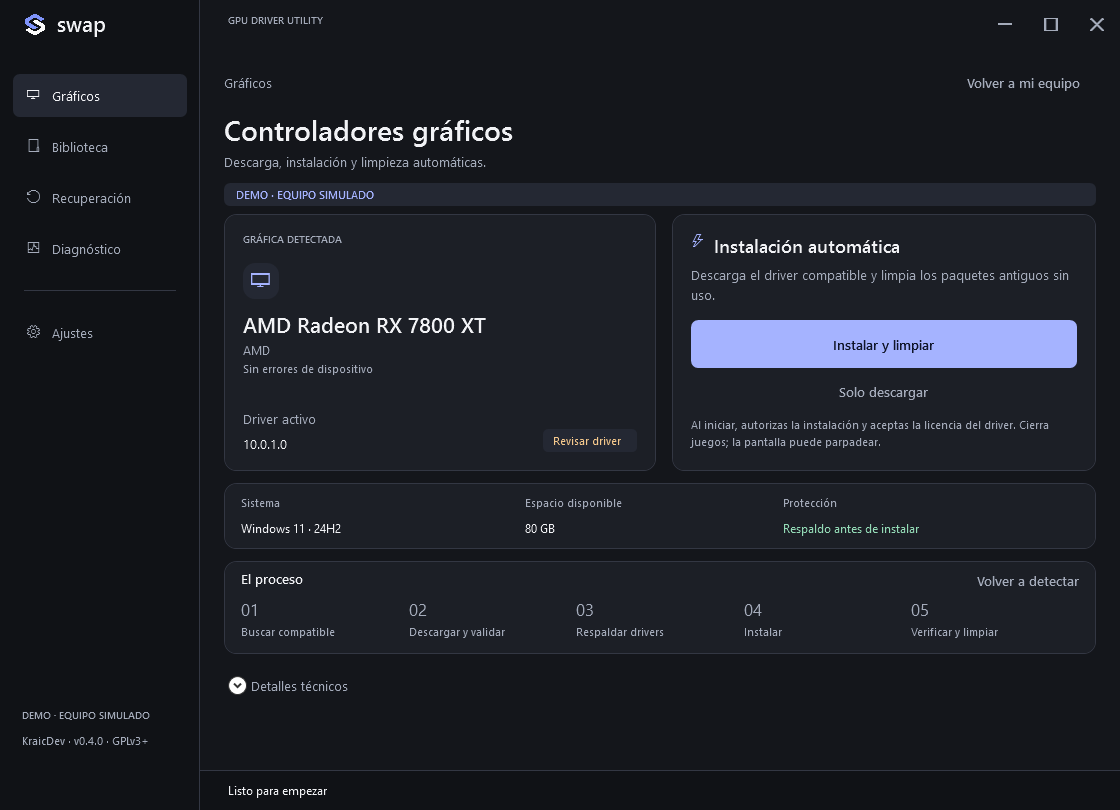
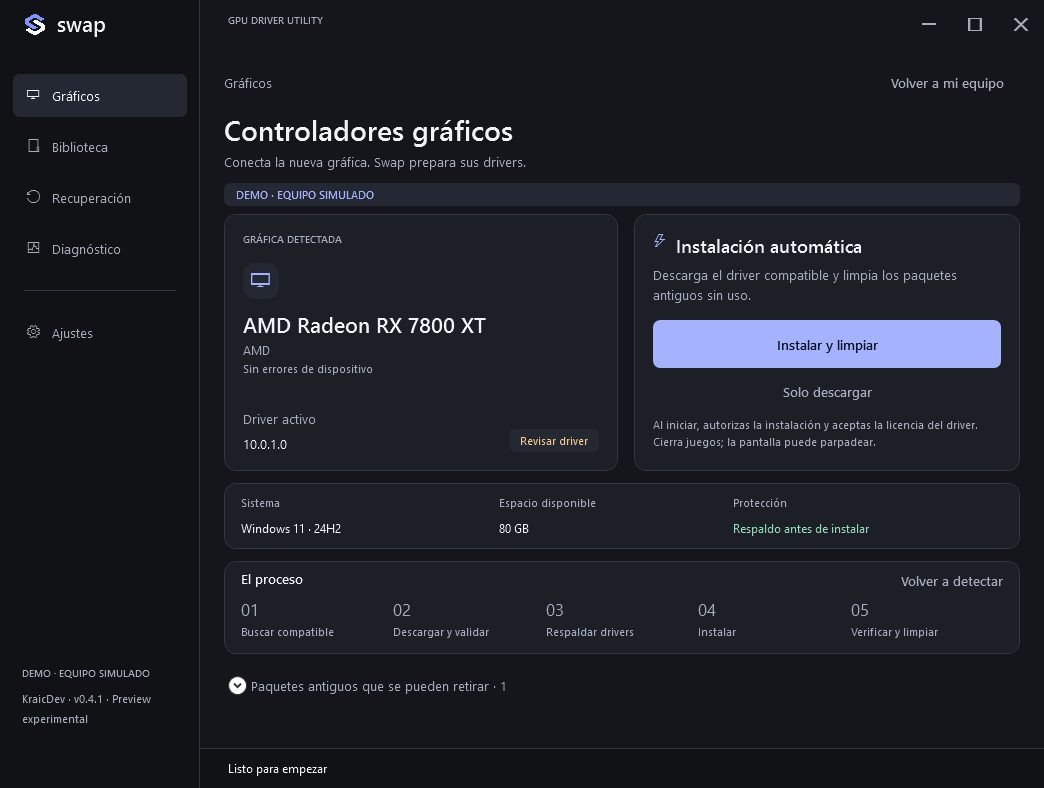
Present the post-connection workflow and verified 0.4.1 download — KraicDev

diff --git a/web/index.html b/web/index.html
@@ -1,11 +1,11 @@
 <!doctype html>
-<html lang="en"><head><meta charset="utf-8"><meta name="viewport" content="width=device-width,initial-scale=1"><meta name="theme-color" content="#121419"><meta name="description" content="Swap by KraicDev — a free, open-source portable GPU driver utility for Windows. NVIDIA, AMD and Intel Arc. Experimental preview."><title>Swap — KraicDev</title><link rel="icon" href="logo.png"><link rel="stylesheet" href="style.css"></head>
+<html lang="en"><head><meta charset="utf-8"><meta name="viewport" content="width=device-width,initial-scale=1"><meta name="theme-color" content="#121419"><meta name="description" content="Swap by KraicDev prepares Windows after a GPU brand change: hardware-matched drivers, verified backups and unused Display package cleanup. Free portable EXE."><link rel="canonical" href="https://zkraic.github.io/Swap/"><meta property="og:type" content="website"><meta property="og:title" content="Swap — GPU driver transition | KraicDev"><meta property="og:description" content="For use after connecting your new graphics card. Free, open-source Windows EXE. Experimental preview."><meta property="og:url" content="https://zkraic.github.io/Swap/"><meta property="og:image" content="https://zkraic.github.io/Swap/app-dark.png?v=0.4.1"><meta name="twitter:card" content="summary_large_image"><title>Swap — GPU driver transition | KraicDev</title><link rel="icon" href="logo.png"><link rel="stylesheet" href="style.css"></head>
 <body><a class="skip" href="#main">Skip to content</a>
 <header><a class="brand" href="#main"><img src="logo.png" width="30" height="30" alt=""><span>swap<span class="by">by KraicDev</span></span></a><nav aria-label="Main"><a href="#features" data-i18n="navFeatures">Features</a><a href="#details" data-i18n="navDetails">Details</a><a href="https://github.com/zKraic/Swap">GitHub ↗</a><button id="language" aria-label="Cambiar idioma a español">ES</button><button id="theme" aria-label="Toggle color theme">◐</button></nav></header>
-<main id="main"><section class="hero"><div class="intro"><p class="eyebrow">WINDOWS UTILITIES / KRAICDEV</p><h1 data-i18n="title">GPU driver<br>management.</h1><p class="lead" data-i18n="intro">Download, back up, install and verify. A single portable EXE for NVIDIA, AMD and Intel Arc.</p><div class="actions"><a class="primary" href="https://github.com/zKraic/Swap/releases/download/v0.4.0-preview/Swap.exe" data-i18n="download">Download preview <span aria-hidden="true">↓</span></a><a class="secondary" href="https://github.com/zKraic/Swap" data-i18n="source">View source ↗</a></div><p class="meta" data-i18n="meta">Windows 10/11 x64 · Free · No installer</p></div><div class="diagram" aria-label="Backup, install, verify"><div class="orbit"></div><div class="chip"><img src="logo.png" width="72" height="72" alt=""><span>swap</span></div><div class="node n1"><span>01</span><b data-i18n="backup">Back up</b></div><div class="node n2"><span>02</span><b data-i18n="install">Install</b></div><div class="node n3"><span>03</span><b data-i18n="verify">Verify</b></div><p class="diagram-note">NVIDIA ↔ AMD ↔ INTEL ARC</p></div></section>
-<aside class="notice"><span class="tag" data-i18n="preview">EXPERIMENTAL PREVIEW</span><p data-i18n="notice">Installation and removal were tested with simulated hardware. Physical GPU replacement and games remain untested. The EXE is unsigned while trusted signing requires external approval.</p><a href="https://github.com/zKraic/Swap/blob/main/docs/validation/V04-RESULTS.md" data-i18n="evidence">Validation and limits ↗</a></aside>
+<main id="main"><section class="hero"><div class="intro"><p class="eyebrow">WINDOWS UTILITIES / KRAICDEV</p><h1 data-i18n="title">GPU driver<br>transition.</h1><p class="lead" data-i18n="intro">With the new graphics card connected, Swap downloads a compatible Display driver, backs up, installs, verifies and cleans eligible old packages.</p><div class="actions"><a class="primary" href="https://github.com/zKraic/Swap/releases/download/v0.4.1-preview/Swap.exe" data-i18n="download">Download preview <span aria-hidden="true">↓</span></a><a class="secondary" href="https://github.com/zKraic/Swap" data-i18n="source">View source ↗</a></div><p class="meta" data-i18n="meta">Windows 10/11 x64 · Free · No installer</p></div><div class="diagram" aria-label="Backup, install, verify"><div class="orbit"></div><div class="chip"><img src="logo.png" width="72" height="72" alt=""><span>swap</span></div><div class="node n1"><span>01</span><b data-i18n="backup">Back up</b></div><div class="node n2"><span>02</span><b data-i18n="install">Install</b></div><div class="node n3"><span>03</span><b data-i18n="verify">Verify</b></div><p class="diagram-note">NVIDIA ↔ AMD ↔ INTEL ARC</p></div></section>
+<aside class="notice"><span class="tag" data-i18n="preview">EXPERIMENTAL PREVIEW</span><p data-i18n="notice">Installation and removal were tested with simulated hardware. Physical GPU replacement and games remain untested. The EXE is unsigned while trusted signing requires external approval.</p><a href="https://github.com/zKraic/Swap/blob/main/docs/validation/V041-RESULTS.md" data-i18n="evidence">Validation and limits ↗</a></aside>
 <section class="product"><div class="section-title"><p class="eyebrow" data-i18n="interface">THE APPLICATION</p><h2 data-i18n="productTitle">Installation, recovery<br>and diagnostics.</h2></div><div class="app-frame"><img src="app-dark.png" width="1044" height="788" alt="Swap interface in demo mode: detected GPU, automatic installation and workflow" loading="lazy"></div><p class="caption" data-i18n="capture">Actual application capture · Demo hardware · Dark theme</p></section>
-<section id="features"><p class="eyebrow" data-i18n="features">BUILT FOR THE DRIVER CHANGE</p><div class="cards"><article><span class="number">01 /</span><h3 data-i18n="f1">Automatic preparation</h3><p data-i18n="f1text">Hardware-matched Windows Update drivers. Back up first, verify the active signed driver, then clean only unused packages from absent GPU brands.</p></article><article><span class="number">02 /</span><h3 data-i18n="f2">Recovery without a paywall</h3><p data-i18n="f2text">Create an independent graphics backup without changing drivers. Check file integrity before restoring a compatible package.</p><span class="pill" data-i18n="new">NEW IN 0.4</span></article><article><span class="number">03 /</span><h3 data-i18n="f3">Evidence before and after</h3><p data-i18n="f3text">Driver health, hardware Direct3D, display resolution and Hz, recent incidents and a saved comparison of the graphics state.</p></article></div></section>
-<section id="details" class="details"><div><p class="eyebrow" data-i18n="requirements">BEFORE YOU START</p><h2 data-i18n="detailsTitle">System<br>requirements.</h2><p class="lead small" data-i18n="detailIntro">No account, subscription, ads or project telemetry. Six interface languages follow your PC.</p><a href="https://github.com/zKraic/Swap/releases/tag/v0.4.0-preview" data-i18n="release">Release notes and checksum ↗</a></div><div class="faq"><details open><summary data-i18n="q1">What does it install?</summary><p data-i18n="a1">Applicable Display drivers from your configured Windows Update service. It may offer an older driver than the manufacturer. Full vendor suites, PhysX and optional applications are not installed automatically.</p></details><details><summary data-i18n="q2">Do I need to reboot?</summary><p data-i18n="a2">Not to open Swap or run diagnostics. Windows may require a reboot after changing drivers. Swap saves a continuation session and preserves pending packages. Remote sessions and pending servicing restarts block driver changes.</p></details><details><summary data-i18n="q3">Which PCs are supported?</summary><p data-i18n="a3">The preview targets Windows 10/11 x64, PowerShell 5.1, Windows Update and at least 4 GB free plus driver space. Internet is needed for automatic downloads. Physical hardware compatibility still needs testing.</p></details><details><summary data-i18n="q4">Can I improve or redistribute it?</summary><p data-i18n="a4">Yes, under GPL-3.0-or-later, including commercial reuse. Distributed modifications must retain required notices and corresponding source. Forks must not impersonate KraicDev or claim to be official releases.</p></details></div></section>
-<section class="closing"><p class="eyebrow">FREE / OPEN SOURCE</p><h2 data-i18n="closing">Contribute<br>to Swap.</h2><p data-i18n="closingText">Review the code, report reproducible issues and contribute hardware test results.</p><a class="secondary" href="https://github.com/zKraic/Swap/blob/main/CONTRIBUTING.md" data-i18n="contribute">Contribute on GitHub ↗</a></section></main>
+<section id="features"><p class="eyebrow" data-i18n="features">BUILT FOR THE DRIVER CHANGE</p><div class="cards"><article><span class="number">01 /</span><h3 data-i18n="f1">Driver installation and cleanup</h3><p data-i18n="f1text">Hardware-matched Windows Update drivers. Back up first, verify the active signed driver, then clean only unused packages from absent GPU brands.</p></article><article><span class="number">02 /</span><h3 data-i18n="f2">Backup and recovery</h3><p data-i18n="f2text">Create an independent graphics backup without changing drivers. Check file integrity before restoring a compatible package.</p><span class="pill" data-i18n="new">NEW IN 0.4</span></article><article><span class="number">03 /</span><h3 data-i18n="f3">Graphics diagnostics</h3><p data-i18n="f3text">Driver health, hardware Direct3D, display resolution and Hz, recent incidents and a saved comparison of the graphics state.</p></article></div></section>
+<section id="details" class="details"><div><p class="eyebrow" data-i18n="requirements">BEFORE YOU START</p><h2 data-i18n="detailsTitle">System<br>requirements.</h2><p class="lead small" data-i18n="detailIntro">No account, subscription, ads or project telemetry. Six interface languages follow your PC.</p><a href="https://github.com/zKraic/Swap/releases/tag/v0.4.1-preview" data-i18n="release">Release notes and checksum ↗</a></div><div class="faq"><details open><summary data-i18n="q1">What does it install?</summary><p data-i18n="a1">Applicable Display drivers from your configured Windows Update service. It may offer an older driver than the manufacturer. Full vendor suites, PhysX and optional applications are not installed automatically.</p></details><details><summary data-i18n="q2">Do I need to reboot?</summary><p data-i18n="a2">Not to open Swap or run diagnostics. Windows may require a reboot after changing drivers. Swap saves a continuation session and preserves pending packages. Remote sessions and pending servicing restarts block driver changes.</p></details><details><summary data-i18n="q3">Which PCs are supported?</summary><p data-i18n="a3">The preview targets Windows 10/11 x64, PowerShell 5.1, Windows Update and at least 4 GB free plus driver space. Internet is needed for automatic downloads. Physical hardware compatibility still needs testing.</p></details><details><summary data-i18n="q4">Can I improve or redistribute it?</summary><p data-i18n="a4">Yes, under GPL-3.0-or-later, including commercial reuse. Distributed modifications must retain required notices and corresponding source. Forks must not impersonate KraicDev or claim to be official releases.</p></details></div></section>
+<section class="closing"><p class="eyebrow">FREE / OPEN SOURCE</p><h2 data-i18n="closing">Contribute<br>to Swap.</h2><p data-i18n="closingText">Review the code, report reproducible issues and contribute hardware test results.</p><a class="secondary" href="https://github.com/zKraic/Swap/blob/main/CONTRIBUTING.md" data-i18n="contribute">Contribute on GitHub ↗</a> <button id="share" class="secondary" data-i18n="share">Copy project link</button><p id="shareStatus" role="status" aria-live="polite"></p></section></main>
 <footer><div>© 2026 KraicDev · Swap</div><div><a href="https://github.com/zKraic/Swap/blob/main/LICENSE">GPLv3+</a><a href="https://github.com/zKraic/Swap/blob/main/TRADEMARKS.md" data-i18n="brandPolicy">Brand policy</a><a href="https://github.com/zKraic/Swap/blob/main/docs/PRIVACY.md" data-i18n="privacy">Privacy</a><a href="https://github.com/zKraic/Swap/blob/main/docs/SIGNING.md">Code signing policy</a></div><p data-i18n="unaffiliated">Independent project. No affiliation or certification by Microsoft, NVIDIA, AMD or Intel.</p></footer><script src="app.js"></script></body></html>

diff --git a/web/app.js b/web/app.js
@@ -1,13 +1,15 @@
 'use strict';
-const es={
-navFeatures:'Funciones',navDetails:'Detalles',title:'Gestión de<br>drivers gráficos.',intro:'Descarga, respaldo, instalación y verificación. Un EXE portable para NVIDIA, AMD e Intel Arc.',download:'Descargar preview <span aria-hidden="true">↓</span>',source:'Ver código ↗',meta:'Windows 10/11 x64 · Gratis · Sin instalador',backup:'Respaldar',install:'Instalar',verify:'Verificar',preview:'VERSIÓN EXPERIMENTAL',notice:'La instalación y retirada se probaron con hardware simulado. Falta validar cambios físicos de GPU y juegos. El EXE no está firmado; la firma de confianza depende de aprobación externa.',evidence:'Pruebas y límites ↗',interface:'LA APLICACIÓN',productTitle:'Instalación, recuperación<br>y diagnóstico.',capture:'Captura real de la aplicación · Hardware demo · Tema oscuro',features:'PARA EL CAMBIO DE DRIVERS',f1:'Preparación automática',f1text:'Drivers compatibles desde Windows Update. Respaldo primero, verificación del driver activo firmado y retirada de paquetes sin uso de marcas ausentes.',f2:'Recuperación sin cobros',f2text:'Crea un respaldo gráfico independiente sin cambiar drivers. Comprueba sus archivos antes de restaurar un paquete compatible.',new:'NUEVO EN 0.4',f3:'Evidencia antes y después',f3text:'Estado del driver, Direct3D en hardware, resolución y Hz, incidentes recientes y comparación guardada del sistema gráfico.',requirements:'ANTES DE EMPEZAR',detailsTitle:'Requisitos<br>del sistema.',detailIntro:'Sin cuentas, suscripciones, anuncios ni telemetría propia. Seis idiomas según el PC.',release:'Notas de versión y checksum ↗',q1:'¿Qué instala?',a1:'Drivers Display aplicables del servicio Windows Update configurado. Pueden ser anteriores al fabricante. No instala automáticamente suites completas, PhysX ni aplicaciones opcionales.',q2:'¿Necesito reiniciar?',a2:'Para abrir Swap o diagnosticar, no. Windows puede pedir reiniciar después de cambiar drivers. Swap guarda una sesión y conserva lo pendiente. Bloquea cambios durante sesiones remotas y reinicios pendientes del sistema.',q3:'¿Qué equipos admite?',a3:'La preview está destinada a Windows 10/11 x64, PowerShell 5.1, Windows Update y 4 GB libres más el driver. Las descargas necesitan conexión. La compatibilidad física aún requiere pruebas.',q4:'¿Puedo mejorarlo o distribuirlo?',a4:'Sí, bajo GPL-3.0-or-later, incluido uso comercial. Las modificaciones distribuidas deben conservar avisos y código correspondiente. Los forks no pueden suplantar a KraicDev ni presentarse como oficiales.',closing:'Contribuye<br>a Swap.',closingText:'Revisa el código, reporta problemas reproducibles y contribuye con pruebas de hardware.',contribute:'Contribuir en GitHub ↗',brandPolicy:'Política de marca',privacy:'Privacidad',unaffiliated:'Proyecto independiente. Sin afiliación ni certificación de Microsoft, NVIDIA, AMD o Intel.'};
+const es={share:'Copiar enlace',
+navFeatures:'Funciones',navDetails:'Detalles',title:'Cambio de<br>tarjeta gráfica.',intro:'Con la nueva gráfica conectada, Swap descarga un driver Display compatible, respalda, instala, verifica y limpia los paquetes antiguos elegibles.',download:'Descargar preview <span aria-hidden="true">↓</span>',source:'Ver código ↗',meta:'Windows 10/11 x64 · Gratis · Sin instalador',backup:'Respaldar',install:'Instalar',verify:'Verificar',preview:'VERSIÓN EXPERIMENTAL',notice:'La instalación y retirada se probaron con hardware simulado. Falta validar cambios físicos de GPU y juegos. El EXE no está firmado; la firma de confianza depende de aprobación externa.',evidence:'Pruebas y límites ↗',interface:'LA APLICACIÓN',productTitle:'Instalación, recuperación<br>y diagnóstico.',capture:'Captura real de la aplicación · Hardware demo · Tema oscuro',features:'PARA EL CAMBIO DE DRIVERS',f1:'Instalación y limpieza',f1text:'Drivers compatibles desde Windows Update. Respaldo primero, verificación del driver activo firmado y retirada de paquetes sin uso de marcas ausentes.',f2:'Respaldo y recuperación',f2text:'Crea un respaldo gráfico independiente sin cambiar drivers. Comprueba sus archivos antes de restaurar un paquete compatible.',new:'NUEVO EN 0.4',f3:'Diagnóstico gráfico',f3text:'Estado del driver, Direct3D en hardware, resolución y Hz, incidentes recientes y comparación guardada del sistema gráfico.',requirements:'ANTES DE EMPEZAR',detailsTitle:'Requisitos<br>del sistema.',detailIntro:'Sin cuentas, suscripciones, anuncios ni telemetría propia. Seis idiomas según el PC.',release:'Notas de versión y checksum ↗',q1:'¿Qué instala?',a1:'Drivers Display aplicables del servicio Windows Update configurado. Pueden ser anteriores al fabricante. No instala automáticamente suites completas, PhysX ni aplicaciones opcionales.',q2:'¿Necesito reiniciar?',a2:'Para abrir Swap o diagnosticar, no. Windows puede pedir reiniciar después de cambiar drivers. Swap guarda una sesión y conserva lo pendiente. Bloquea cambios durante sesiones remotas y reinicios pendientes del sistema.',q3:'¿Qué equipos admite?',a3:'La preview está destinada a Windows 10/11 x64, PowerShell 5.1, Windows Update y 4 GB libres más el driver. Las descargas necesitan conexión. La compatibilidad física aún requiere pruebas.',q4:'¿Puedo mejorarlo o distribuirlo?',a4:'Sí, bajo GPL-3.0-or-later, incluido uso comercial. Las modificaciones distribuidas deben conservar avisos y código correspondiente. Los forks no pueden suplantar a KraicDev ni presentarse como oficiales.',closing:'Contribuye<br>a Swap.',closingText:'Revisa el código, reporta problemas reproducibles y contribuye con pruebas de hardware.',contribute:'Contribuir en GitHub ↗',brandPolicy:'Política de marca',privacy:'Privacidad',unaffiliated:'Proyecto independiente. Sin afiliación ni certificación de Microsoft, NVIDIA, AMD o Intel.'};
 const targets=[...document.querySelectorAll('[data-i18n]')];
 const en=Object.fromEntries(targets.map(el=>[el.dataset.i18n,el.innerHTML]));
 let language=navigator.language.toLowerCase().startsWith('es')?'es':'en';
-function render(){for(const el of targets)el.innerHTML=(language==='es'?es:en)[el.dataset.i18n];document.documentElement.lang=language;const b=document.getElementById('language');b.textContent=language==='es'?'EN':'ES';b.setAttribute('aria-label',language==='es'?'Switch to English':'Cambiar idioma a español');}
+function render(){for(const el of targets)el.innerHTML=(language==='es'?es:en)[el.dataset.i18n];document.documentElement.lang=language;const b=document.getElementById('language');b.textContent=language==='es'?'EN':'ES';b.setAttribute('aria-label',language==='es'?'Switch to English':'Cambiar idioma a español');document.getElementById('theme').setAttribute('aria-label',language==='es'?'Cambiar tema de color':'Toggle color theme');document.getElementById('shareStatus').textContent='';}
 document.getElementById('language').addEventListener('click',()=>{language=language==='es'?'en':'es';render();});
 const theme=document.getElementById('theme');
 function paint(light){document.body.classList.toggle('light',light);theme.setAttribute('aria-pressed',String(light));}
 paint(window.matchMedia('(prefers-color-scheme: light)').matches);
 theme.addEventListener('click',()=>paint(!document.body.classList.contains('light')));
 render();
+
+document.getElementById('share').addEventListener('click',async()=>{const status=document.getElementById('shareStatus');try{await navigator.clipboard.writeText('https://zkraic.github.io/Swap/');status.textContent=language==='es'?'Enlace copiado.':'Project link copied.';}catch{status.textContent='https://zkraic.github.io/Swap/';}});

diff --git a/README.md b/README.md
@@ -1,16 +1,16 @@
 <p align="center"><img src=".github/media/banner.svg" alt="Swap — GPU driver utility by KraicDev" width="100%"></p>
 
-<p align="center"><a href="https://zkraic.github.io/Swap/">Website</a> · <a href="https://github.com/zKraic/Swap/releases/tag/v0.4.0-preview">Download EXE</a> · <a href="README.es.md">Español</a> · <a href="CONTRIBUTING.md">Contribute</a></p>
+<p align="center"><a href="https://zkraic.github.io/Swap/">Website</a> · <a href="https://github.com/zKraic/Swap/releases/tag/v0.4.1-preview">Download EXE</a> · <a href="README.es.md">Español</a> · <a href="CONTRIBUTING.md">Contribute</a></p>
 
 **Prepare Windows after connecting a graphics card of another brand.** NVIDIA, AMD and Intel Arc. Free, open source, no account or subscription.
 
-> **Experimental preview · Windows 10/11 x64.** Driver installation/removal has been tested with a simulated backend, not a physical GPU replacement. Evaluate diagnostics and demo first. The executable is unsigned; trusted signing depends on external approval. [Validation](docs/validation/V04-RESULTS.md) · [Code signing policy](docs/SIGNING.md).
+> **Experimental preview · Windows 10/11 x64.** Driver installation/removal has been tested with a simulated backend, not a physical GPU replacement. Evaluate diagnostics and demo first. The executable is unsigned; trusted signing depends on external approval. [Validation](docs/validation/V041-RESULTS.md) · [Code signing policy](docs/SIGNING.md).
 
 ![Actual Swap interface in demo mode](.github/media/app-dark.png)
 
-## A complete workflow
+## Driver transition
 
-With the new card connected, **Install and clean** finds a matching Display driver through Windows Update, downloads it, backs up existing graphics packages, installs it and verifies the active signed driver. Only then does it clean unused Display packages from absent GPU brands. Present GPUs, integrated graphics and hybrid systems are preserved.
+With the new card connected, **Install and clean** finds a matching Display driver through Windows Update, downloads it, backs up existing graphics packages, installs it and verifies the active signed driver and hardware Direct3D. If several GPUs remain ambiguous, explicitly select the new card; Swap does not guess. Only then does it clean unused Display packages from absent GPU brands. Present GPUs, integrated graphics and hybrid systems are preserved.
 
 | Graphics | Recovery | Diagnostics |
 |---|---|---|
@@ -24,13 +24,13 @@ Independent backup works without changing drivers. It checks altered, missing or
 
 ## Download and open
 
-1. Download **[Swap.exe](https://github.com/zKraic/Swap/releases/download/v0.4.0-preview/Swap.exe)** and optionally its [SHA-256](https://github.com/zKraic/Swap/releases/download/v0.4.0-preview/Swap.exe.sha256).
+1. Download **[Swap.exe](https://github.com/zKraic/Swap/releases/download/v0.4.1-preview/Swap.exe)** and optionally its [SHA-256](https://github.com/zKraic/Swap/releases/download/v0.4.1-preview/Swap.exe.sha256).
 2. Open it and accept Windows administrator permissions. No Swap installer, ZIP or separate .NET installation.
 3. Review the detected card and choose an operation. Diagnostics need no reboot. Windows may require one after a driver change; Swap saves the session and preserves pending packages.
 
 Automatic mode requires internet, a working Windows Update service, PowerShell 5.1 and at least 4 GB free plus driver space. It respects existing policies. Catalog drivers may be older than manufacturer releases. It does not automatically install the full Adrenalin/NVIDIA suite, PhysX or optional vendor applications. No DDU, forced package removal, registry cleaning or game tweaks.
 
-Windows 7/8, x86 and ARM64 are not validated targets. Driver changes are blocked during remote sessions and pending Windows servicing restarts. Software inventory cannot certify GPU power, PCIe seating or every game.
+Windows 7/8, x86 and ARM64 are not validated targets. Driver changes are blocked in Windows RDP sessions, while a known remote-control tool is running (including idle TeamViewer services), and during pending Windows servicing restarts. Diagnostics and independent backup remain available. Software inventory cannot certify GPU power, PCIe seating or every game.
 
 ## Portable by default
 

diff --git a/README.es.md b/README.es.md
@@ -2,17 +2,17 @@
 
 **Prepara Windows después de conectar una gráfica de otra marca.** NVIDIA, AMD e Intel Arc. Gratis, sin cuenta ni suscripción.
 
-[Página](https://zkraic.github.io/Swap/) · [Descargar](https://github.com/zKraic/Swap/releases/tag/v0.4.0-preview) · [English](README.md)
+[Página](https://zkraic.github.io/Swap/) · [Descargar](https://github.com/zKraic/Swap/releases/tag/v0.4.1-preview) · [English](README.md)
 
-**Versión experimental 0.4.0.** La instalación y retirada se probaron con un backend simulado. Falta validar un cambio físico de tarjeta; la firma depende de aprobación externa. [Resultados](docs/validation/V04-RESULTS.md).
+**Versión experimental 0.4.1.** La instalación y retirada se probaron con un backend simulado. Falta validar un cambio físico de tarjeta; la firma depende de aprobación externa. [Resultados](docs/validation/V041-RESULTS.md).
 
-Con la nueva tarjeta conectada, **Instalar y limpiar** busca un driver de pantalla compatible en Windows Update, lo descarga, respalda los paquetes actuales, instala y verifica el driver activo firmado. Solo después retira paquetes Display sin uso de marcas ausentes. Conserva GPU presentes, integradas y configuraciones híbridas.
+Con la nueva tarjeta conectada, **Instalar y limpiar** busca un driver de pantalla compatible en Windows Update, lo descarga, respalda los paquetes actuales, instala y verifica el driver activo firmado y Direct3D en hardware. Solo después retira paquetes Display sin uso de marcas ausentes. Conserva GPU presentes, integradas y configuraciones híbridas.
 
 **Nuevo: Crear respaldo** exporta los drivers gráficos sin modificarlos. Comprueba archivos alterados, añadidos o ausentes antes de restaurar. Incluye biblioteca de INF firmados, diagnóstico de GPU/pantallas/Hz, eventos gráficos y comparación antes/después.
 
 Descarga **Swap.exe**, ábrelo y acepta UAC. No hay instalador de Swap ni ZIP ni instalación separada de .NET. El diagnóstico no necesita reiniciar; Windows puede exigirlo después de cambiar drivers. Swap guarda la sesión y conserva lo pendiente.
 
-Windows 10/11 x64, PowerShell 5.1, conexión y Windows Update operativo para descarga automática. 4 GB libres más el espacio del driver. No instala toda la suite del fabricante ni utiliza DDU, limpieza del registro o retirada forzada. Bloquea cambios en sesiones remotas y ante reinicios pendientes de Windows.
+Windows 10/11 x64, PowerShell 5.1, conexión y Windows Update operativo para descarga automática. 4 GB libres más el espacio del driver. No instala toda la suite del fabricante ni utiliza DDU, limpieza del registro o retirada forzada. Bloquea cambios en RDP, mientras se ejecutan herramientas remotas conocidas (incluido TeamViewer inactivo) y ante reinicios pendientes de Windows. El diagnóstico y respaldo independiente siguen disponibles. Si hay varias gráficas candidatas, exige elegir la nueva.
 
 Seis idiomas según el PC y temas claro/oscuro/sistema. Datos en `%LOCALAPPDATA%\Swap`; una carpeta `Data` escribible junto al EXE permite almacenamiento portable.
 
